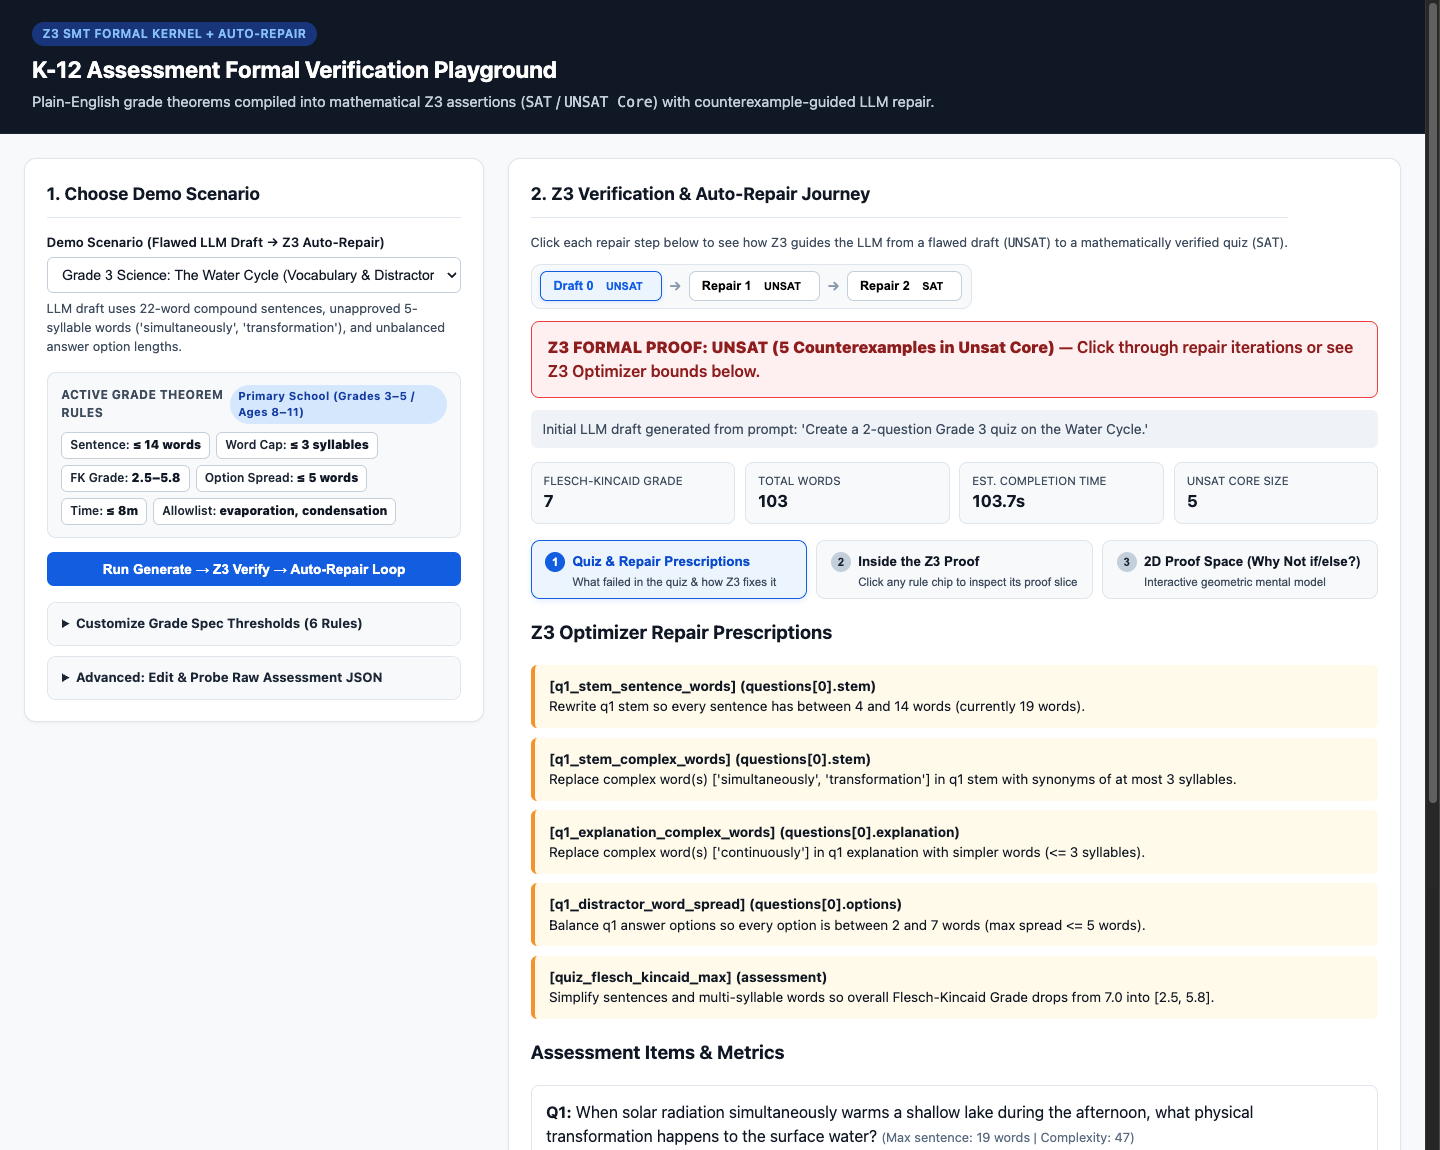
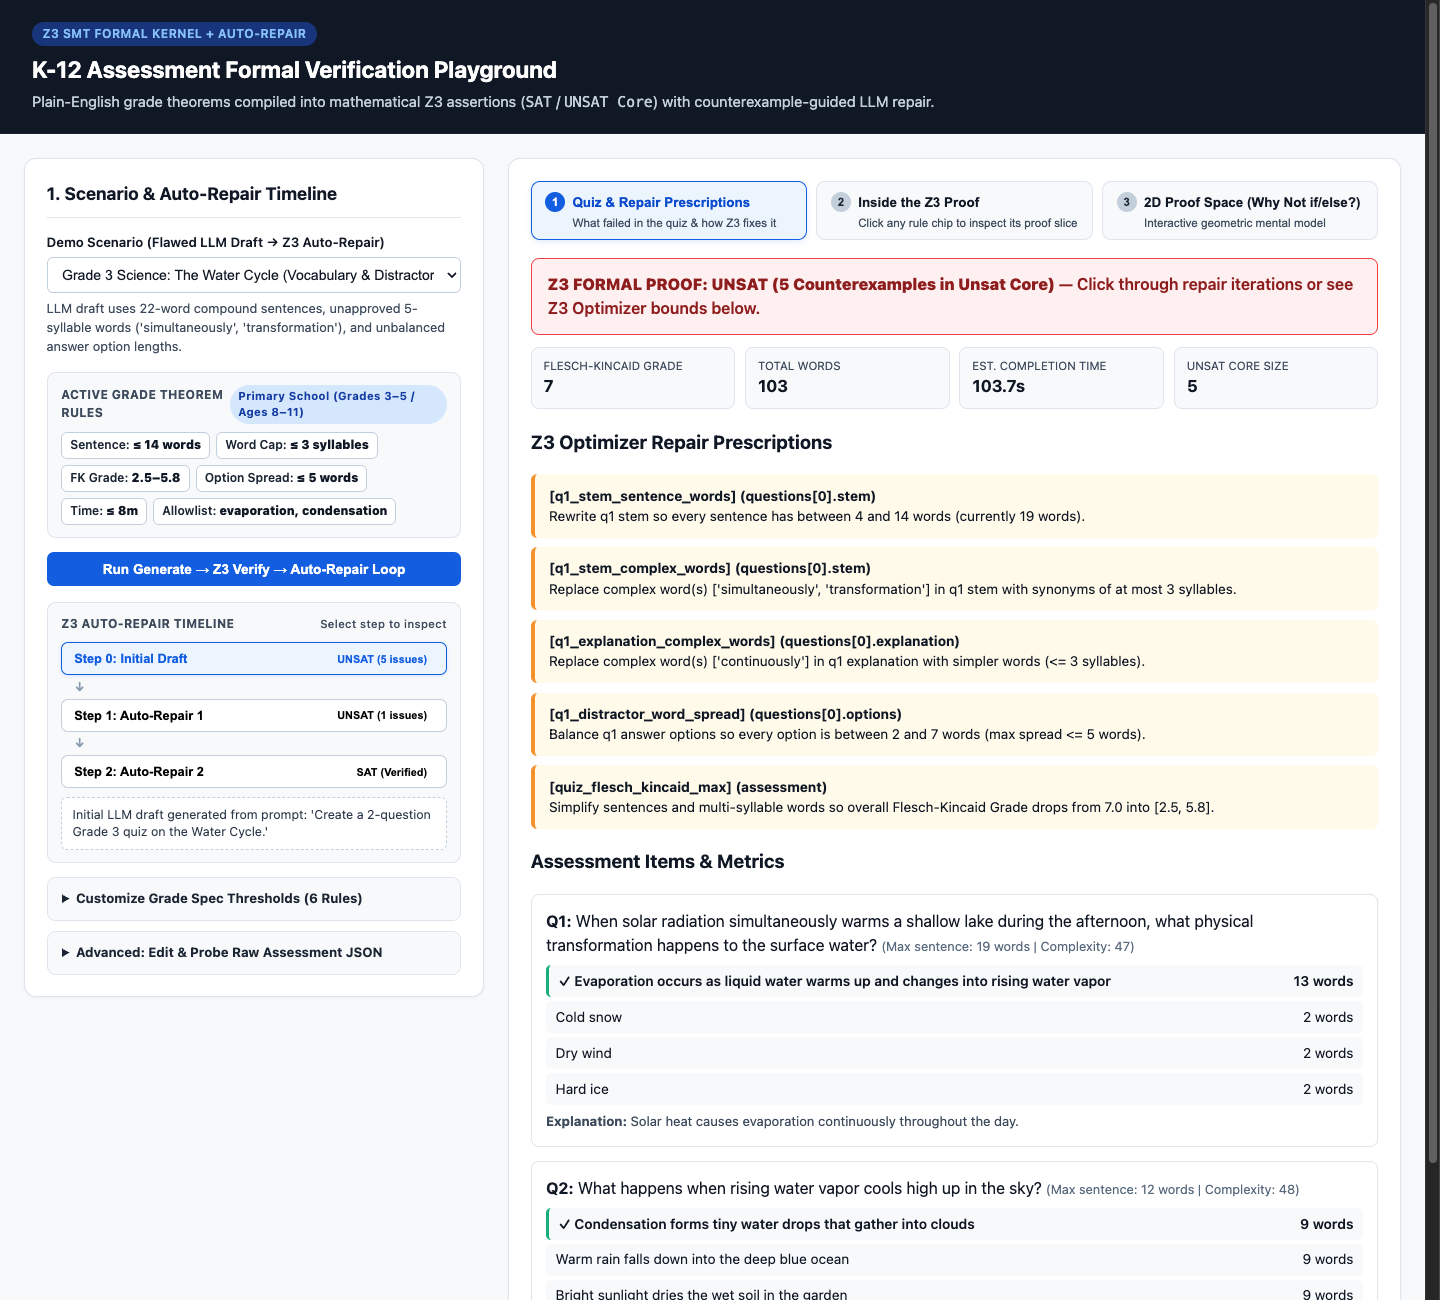
feat(ui): move auto-repair timeline stepper into left sidebar so right panel has a single top tab bar

diff --git a/app/static/index.html b/app/static/index.html
@@ -4,7 +4,7 @@
   <meta charset="UTF-8" />
   <meta name="viewport" content="width=device-width, initial-scale=1.0" />
   <title>K-12 Educational Formal Verification Playground (Z3 SMT Kernel)</title>
-  <link rel="stylesheet" href="/static/styles.css?v=8" />
+  <link rel="stylesheet" href="/static/styles.css?v=9" />
 </head>
 <body>
   <header class="topHeader">
@@ -20,9 +20,9 @@
   </header>
 
   <main class="mainGrid">
-    <!-- Left Column: Progressive Disclosure Setup & Controls -->
+    <!-- Left Column: Scenario, Repair Timeline & Spec Controls -->
     <section class="panelCard">
-      <h2>1. Choose Demo Scenario</h2>
+      <h2>1. Scenario &amp; Auto-Repair Timeline</h2>
 
       <div class="fieldGroup">
         <label for="scenarioSelect">Demo Scenario (Flawed LLM Draft &rarr; Z3 Auto-Repair)</label>
@@ -40,6 +40,16 @@
 
       <div class="buttonRow">
         <button type="button" id="runRepairBtn" class="primaryBtn">Run Generate &rarr; Z3 Verify &rarr; Auto-Repair Loop</button>
+      </div>
+
+      <!-- Vertical Auto-Repair Timeline Stepper in Left Sidebar -->
+      <div class="timelineSidebarCard">
+        <div class="timelineSidebarHeader">
+          <span>Z3 Auto-Repair Timeline</span>
+          <span class="timelineHint">Select step to inspect</span>
+        </div>
+        <div id="iterationTabs" class="iterationTabsVertical"></div>
+        <div id="repairSummaryBox" class="repairSummaryBox"></div>
       </div>
 
       <!-- Progressive Disclosure Accordion Group (Modern HTML <details name="...">) -->
@@ -99,23 +109,10 @@
       </div>
     </section>
 
-    <!-- Right Column: Guided Repair Journey & 3-Step Learning Tabs -->
+    <!-- Right Column: Single 3-Step Lens Tab Bar + Active Inspection Workspace -->
     <section class="panelCard">
-      <div class="traceHeader">
-        <div>
-          <h2>2. Z3 Verification &amp; Auto-Repair Journey</h2>
-          <p class="journeySubtext">Click each repair step below to see how Z3 guides the LLM from a flawed draft (<code>UNSAT</code>) to a mathematically verified quiz (<code>SAT</code>).</p>
-        </div>
-        <div id="iterationTabs" class="iterationTabs"></div>
-      </div>
-
-      <div id="statusBanner" class="statusBanner"></div>
-      <div id="repairSummaryBox" class="repairSummaryBox"></div>
-
-      <div class="metricsBar" id="metricsBar"></div>
-
-      <!-- Numbered 3-Step Learning Progression Tabs -->
-      <div class="viewToggleRow" role="tablist" aria-label="Verification Exploration Steps">
+      <!-- Single Top-Level Tab Bar -->
+      <div class="viewToggleRow" role="tablist" aria-label="Verification Exploration Lenses">
         <button type="button" id="tabVisualBtn" class="tabBtn activeTab">
           <span class="tabStepTitle"><span class="tabStepNum">1</span> Quiz &amp; Repair Prescriptions</span>
           <span class="tabStepSub">What failed in the quiz &amp; how Z3 fixes it</span>
@@ -129,6 +126,10 @@
           <span class="tabStepSub">Interactive geometric mental model</span>
         </button>
       </div>
+
+      <!-- Compact Unified Status & Metrics Header -->
+      <div id="statusBanner" class="statusBanner"></div>
+      <div class="metricsBar" id="metricsBar"></div>
 
       <!-- STEP 1 PANE: Quiz & Repair Prescriptions -->
       <div id="visualProofPane">
@@ -238,6 +239,6 @@
     <div id="explainerDialogBody" class="explainerModalBody"></div>
   </dialog>
 
-  <script src="/static/app.js?v=8"></script>
+  <script src="/static/app.js?v=9"></script>
 </body>
 </html>

diff --git a/app/static/styles.css b/app/static/styles.css
@@ -179,62 +179,74 @@ textarea {
   background: #cbd5e1;
 }
 
-.traceHeader {
-  display: flex;
-  justify-content: space-between;
-  align-items: flex-start;
-  flex-wrap: wrap;
-  gap: 0.75rem;
-  margin-bottom: 0.75rem;
+.timelineSidebarCard {
+  background: #f8fafc;
+  border: 1px solid var(--border-color);
+  border-radius: 9px;
+  padding: 0.75rem 0.85rem;
+  margin-bottom: 0.9rem;
 }
 
-.journeySubtext {
-  margin: 0.15rem 0 0;
-  font-size: 0.8rem;
+.timelineSidebarHeader {
+  display: flex;
+  justify-content: space-between;
+  align-items: center;
+  font-size: 0.75rem;
+  font-weight: 700;
+  text-transform: uppercase;
+  letter-spacing: 0.03em;
+  color: #475569;
+  margin-bottom: 0.55rem;
+}
+
+.timelineHint {
+  font-size: 0.7rem;
+  font-weight: 500;
+  text-transform: none;
   color: var(--text-muted);
 }
 
-.iterationTabs {
+.iterationTabsVertical {
   display: flex;
-  align-items: center;
-  flex-wrap: wrap;
+  flex-direction: column;
   gap: 0.35rem;
-  background: #f8fafc;
-  padding: 0.4rem 0.55rem;
-  border-radius: 10px;
-  border: 1px solid var(--border-color);
 }
 
 .iterConnector {
   color: #94a3b8;
   font-weight: 700;
-  font-size: 0.85rem;
-  padding: 0 0.1rem;
+  font-size: 0.75rem;
+  line-height: 1;
+  padding-left: 0.85rem;
 }
 
 .iterStepBtn {
-  padding: 0.42rem 0.75rem;
+  width: 100%;
+  padding: 0.5rem 0.75rem;
   border-radius: 7px;
-  border: 1px solid #cbd5e1;
+  border: 1.5px solid #cbd5e1;
   background: #ffffff;
-  font-size: 0.79rem;
+  font-size: 0.8rem;
   font-weight: 700;
   cursor: pointer;
-  display: inline-flex;
+  display: flex;
+  justify-content: space-between;
   align-items: center;
   gap: 0.4rem;
   transition: all 0.15s ease;
+  text-align: left;
 }
 
 .iterStepBtn:hover {
   border-color: #94a3b8;
+  background: #f1f5f9;
 }
 
 .iterStepBtn.activeIter {
   border-color: var(--accent-blue);
   background: #eff6ff;
   color: var(--accent-blue);
-  box-shadow: 0 1px 4px rgba(37, 99, 235, 0.15);
+  box-shadow: 0 1px 4px rgba(37, 99, 235, 0.14);
 }
 
 .statusBanner {
@@ -257,12 +269,14 @@ textarea {
 }
 
 .repairSummaryBox {
-  font-size: 0.86rem;
-  color: var(--text-muted);
-  margin-bottom: 0.9rem;
-  padding: 0.55rem 0.75rem;
-  background: #f1f5f9;
+  font-size: 0.78rem;
+  color: #334155;
+  margin-top: 0.55rem;
+  padding: 0.5rem 0.65rem;
+  background: #ffffff;
+  border: 1px dashed #cbd5e1;
   border-radius: 6px;
+  line-height: 1.4;
 }
 
 .metricsBar {

diff --git a/app/static/app.js b/app/static/app.js
@@ -1768,19 +1768,21 @@ function renderIterationTabs() {
   iterationTabs.innerHTML = "";
   currentIterations.forEach((iterRecord, idx) => {
     if (idx > 0) {
-      const connector = document.createElement("span");
+      const connector = document.createElement("div");
       connector.className = "iterConnector";
       connector.setAttribute("aria-hidden", "true");
-      connector.textContent = "→";
+      connector.textContent = "↓";
       iterationTabs.appendChild(connector);
     }
     const btn = document.createElement("button");
     btn.type = "button";
     const statusBadge = iterRecord.verificationResult.status.toUpperCase();
+    const unsatCount = iterRecord.verificationResult.unsatCore.length;
     const isSatStep = statusBadge === "SAT";
     btn.className = `iterStepBtn ${idx === selectedIterationIndex ? "activeIter" : ""}`;
-    const stepLabel = idx === 0 ? "Draft 0" : `Repair ${idx}`;
-    btn.innerHTML = `<span>${stepLabel}</span> <span class="smtStatusChip ${isSatStep ? "chipSat" : "chipViolated"}" style="padding:0.08rem 0.38rem;font-size:0.68rem;">${statusBadge}</span>`;
+    const stepLabel = idx === 0 ? "Step 0: Initial Draft" : `Step ${idx}: Auto-Repair ${idx}`;
+    const detailBadge = isSatStep ? "SAT (Verified)" : `UNSAT (${unsatCount} issues)`;
+    btn.innerHTML = `<span>${stepLabel}</span> <span class="smtStatusChip ${isSatStep ? "chipSat" : "chipViolated"}" style="padding:0.1rem 0.42rem;font-size:0.68rem;">${detailBadge}</span>`;
     btn.addEventListener("click", () => {
       selectedIterationIndex = idx;
       renderIterationTabs();
